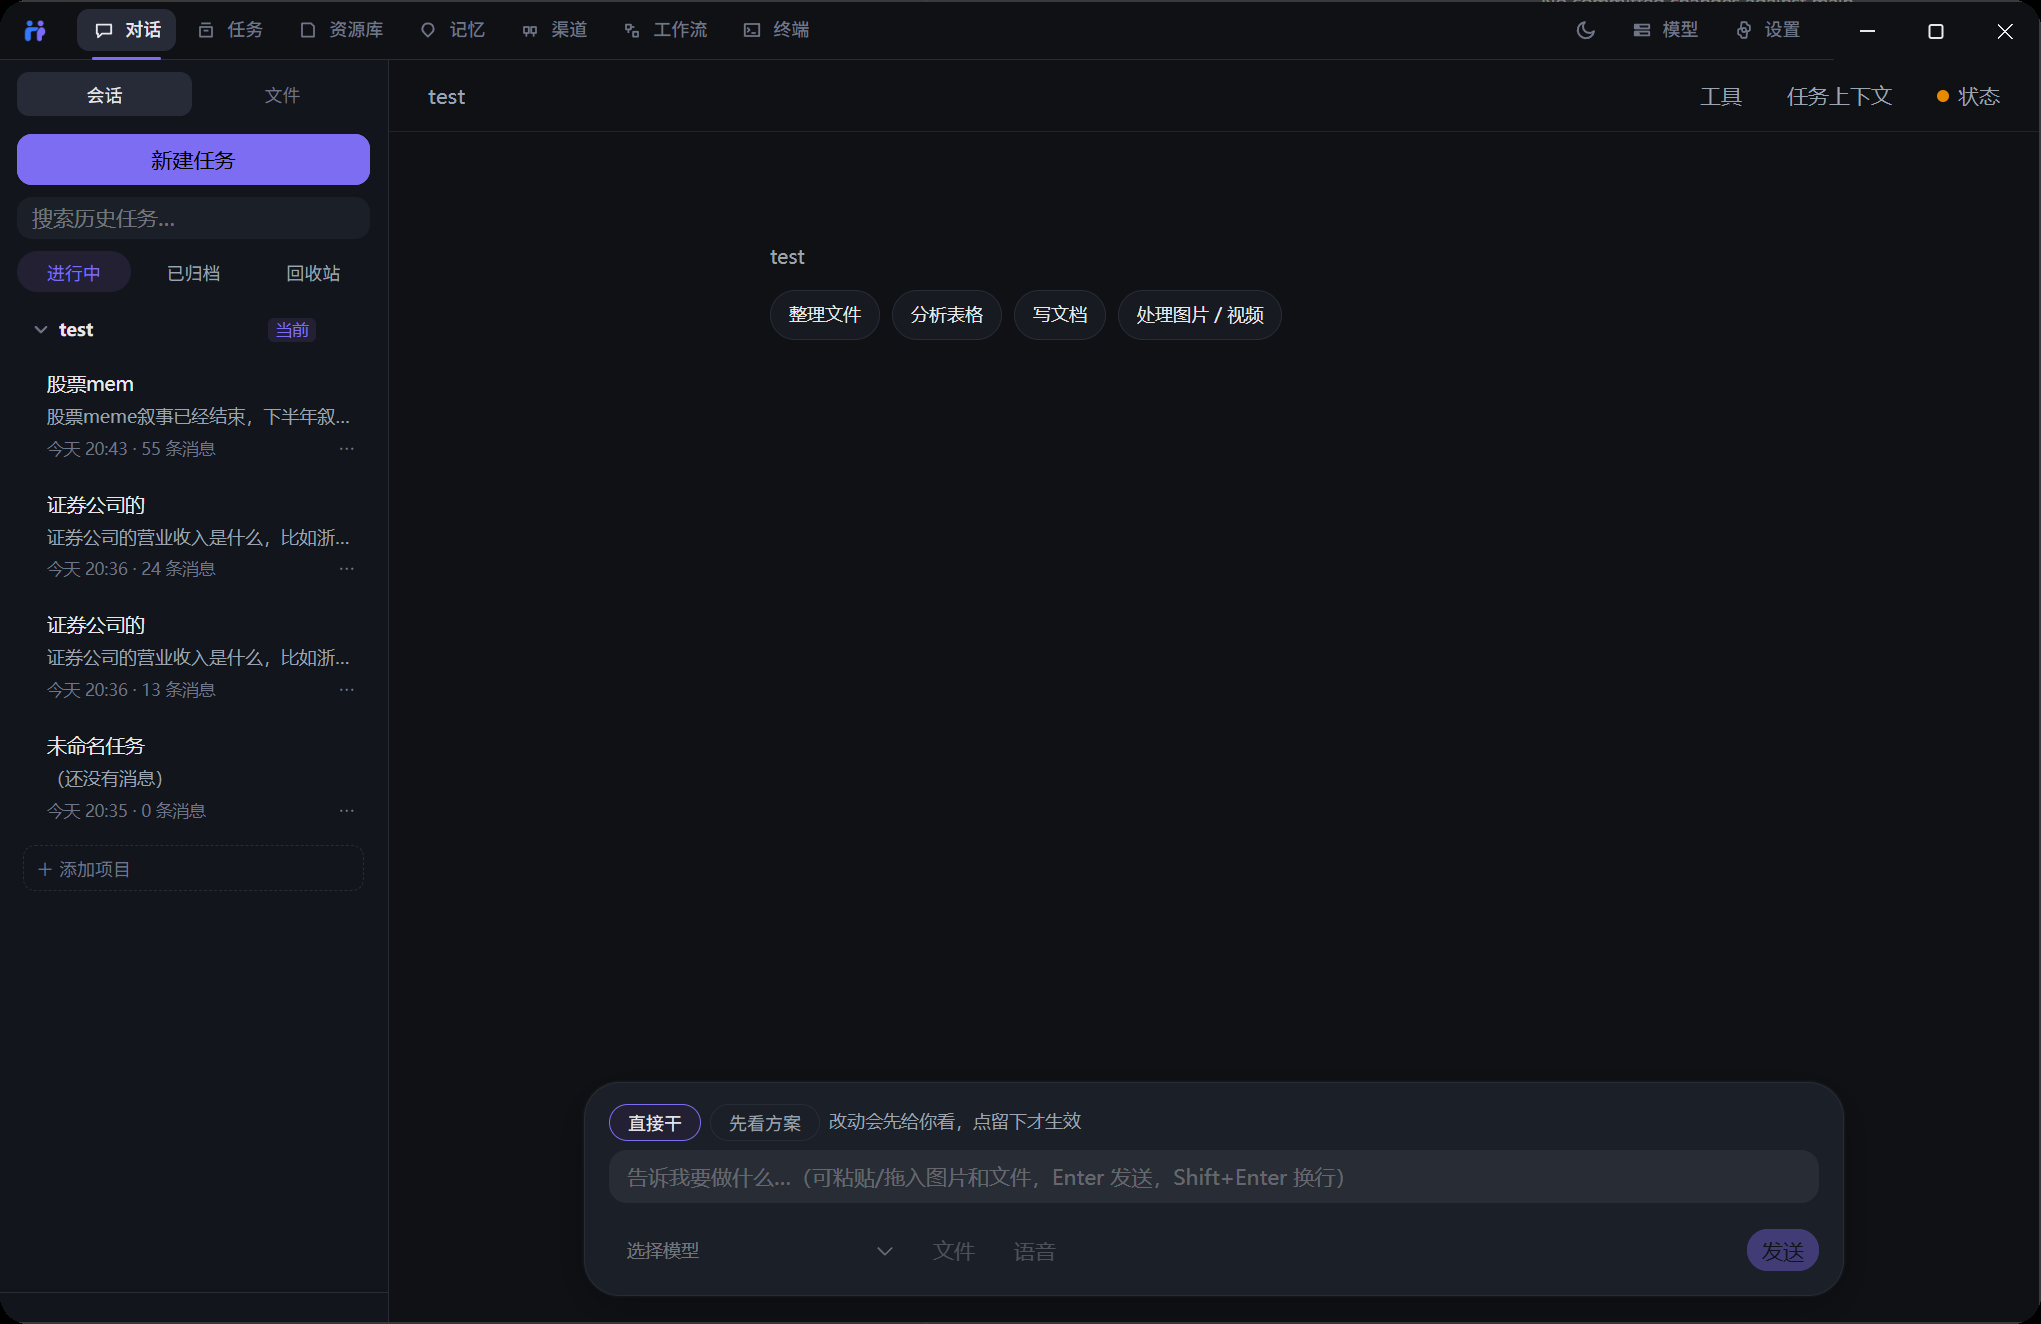
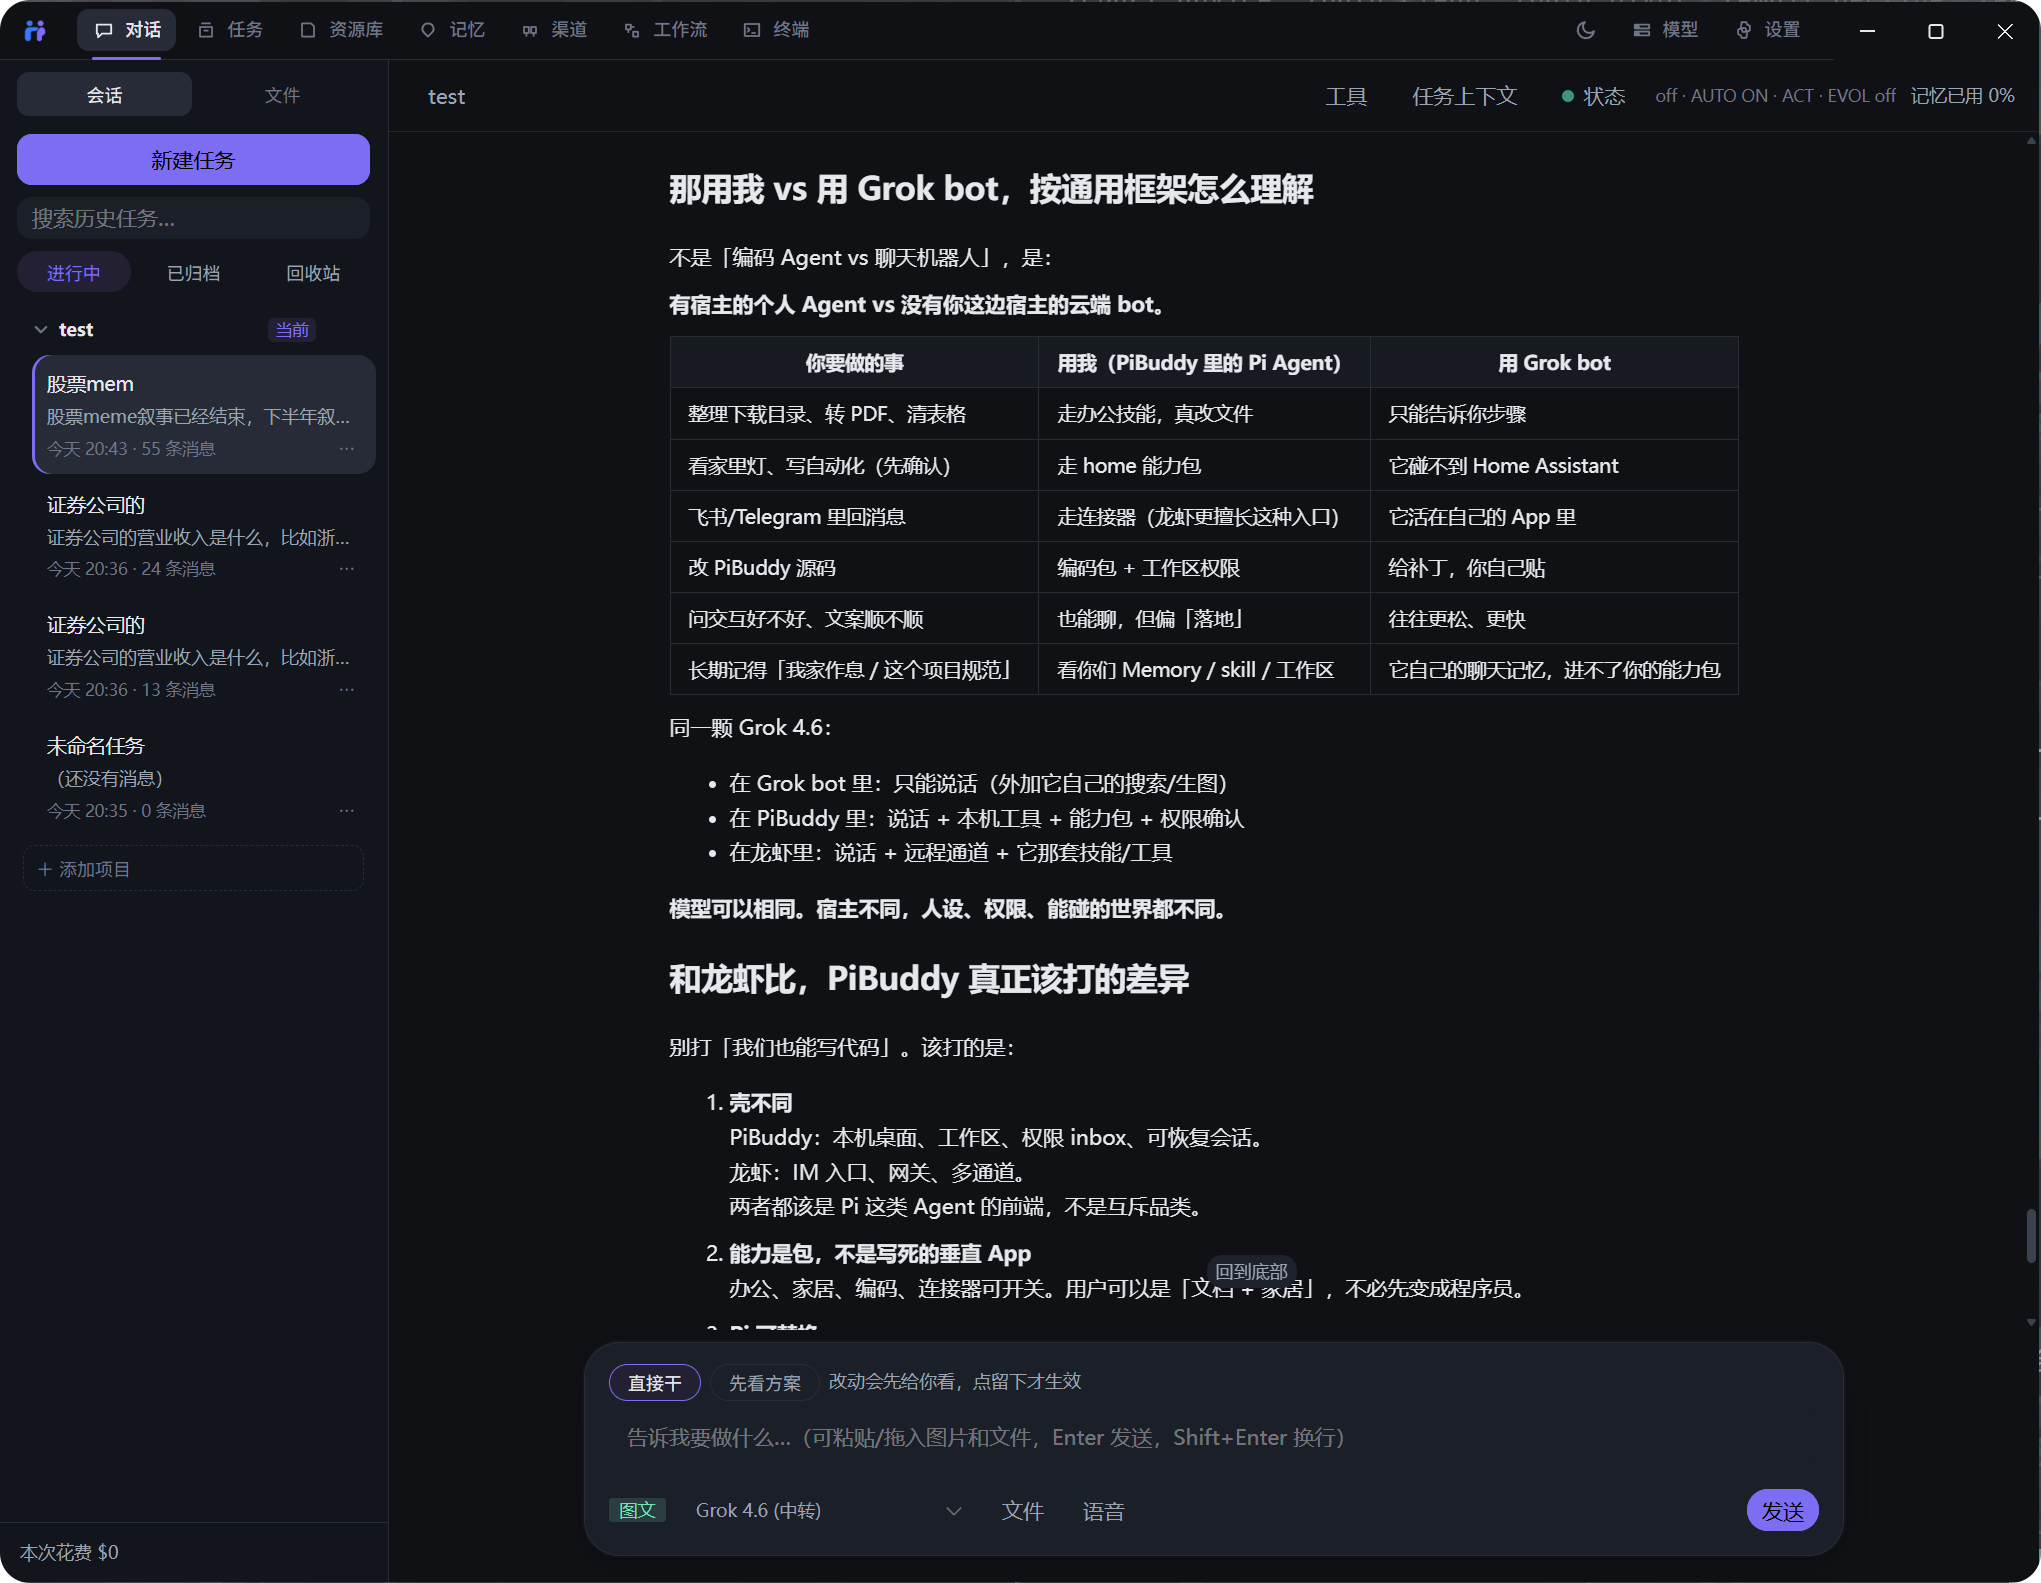
Put the full-resolution chat screenshot in the laptop hero without recompressing it.

diff --git a/pibuddy-docs/tools/compose-hero.py b/pibuddy-docs/tools/compose-hero.py
@@ -51,7 +51,8 @@ def cover_fit(src: Image.Image, width: int, height: int) -> Image.Image:
     nh = max(1, int(round(sh * scale)))
     resized = src.resize((nw, nh), Image.Resampling.LANCZOS)
     left = max(0, (nw - width) // 2)
-    top = max(0, (nh - height) // 2)
+    # 从窗口顶对齐，保住顶栏导航；底部多出来的再裁
+    top = 0
     return resized.crop((left, top, left + width, top + height))
 
 
@@ -75,7 +76,7 @@ def main() -> None:
     screen.paste(fitted)
     frame.paste(screen, (x0, y0), mask)
     OUT.parent.mkdir(parents=True, exist_ok=True)
-    frame.convert("RGB").save(OUT, "PNG", optimize=True)
+    frame.convert("RGB").save(OUT, "PNG", compress_level=1)
     print(f"wrote {OUT} {frame.size[0]}x{frame.size[1]}")
 
 
